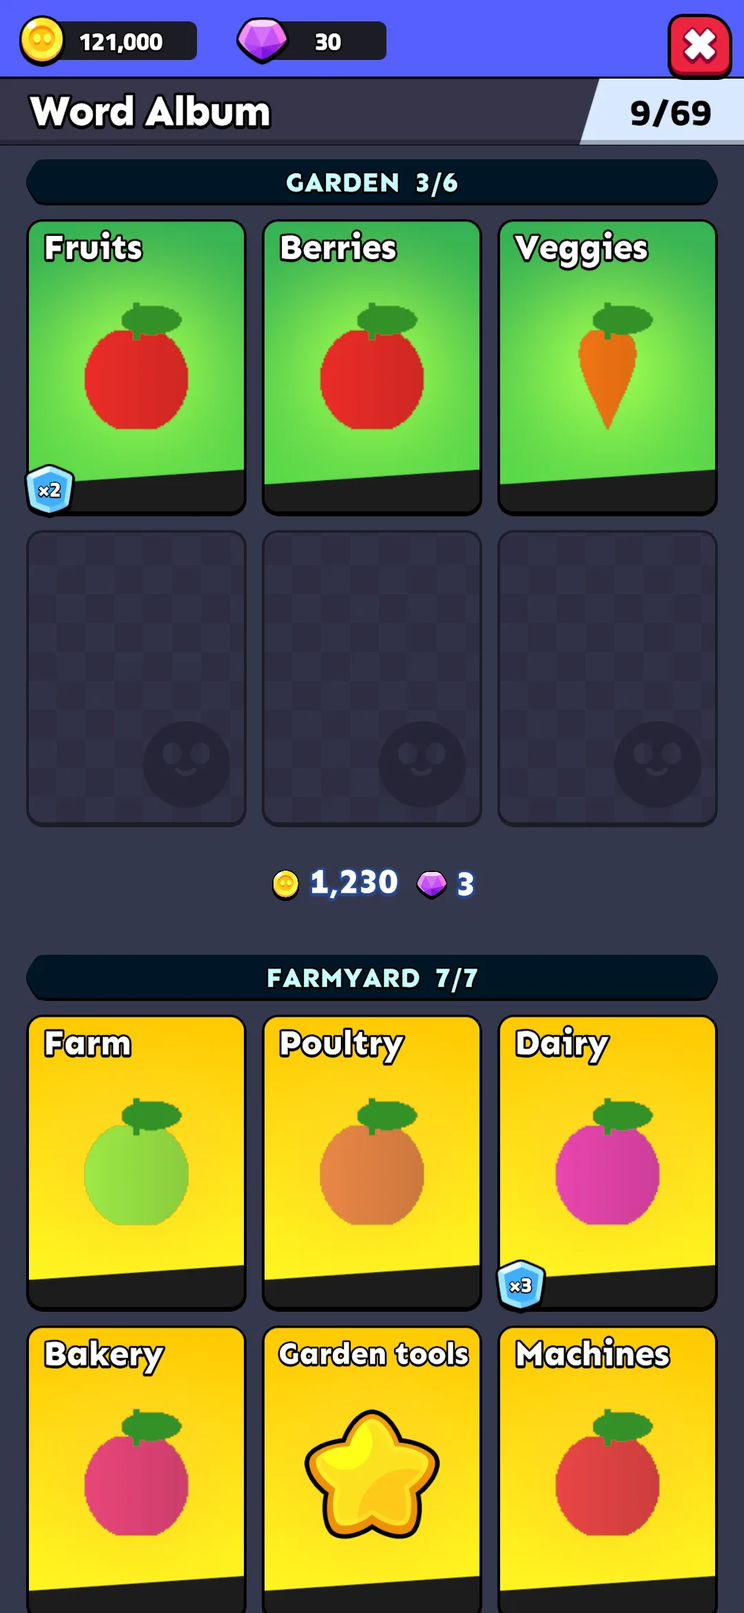
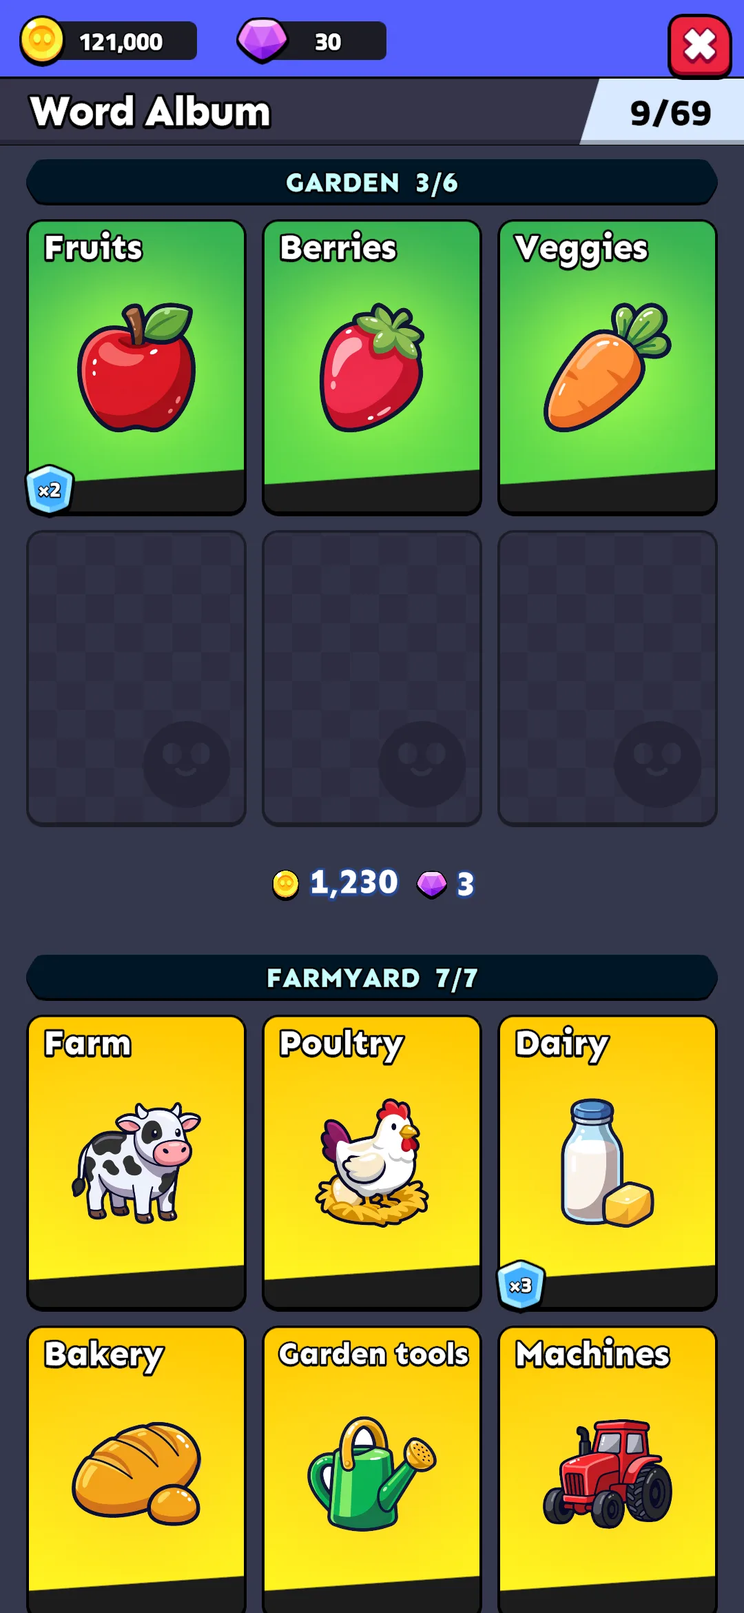
Publish leonteva/word-harvest-farm-windows

diff --git a/leonteva/word-harvest-farm-windows/index.html b/leonteva/word-harvest-farm-windows/index.html
@@ -24,55 +24,55 @@ details{margin-top:6px;font-size:14px} summary{cursor:pointer;color:var(--q)} de
   <header><span class="n">1</span><h2>Уровень фермы (награды)</h2><span class="chip">C — список</span><span class="chip wait">ждёт приёмки</span></header>
   <p class="cap">Дорога уровней пака: пузырь на уровень (монеты в шестиугольнике, самоцветы и джокер парами, лента «что откроется»), слайдер заливается по опыту; сверху бейдж уровня, снизу выбор сукна. <span class="pack">Префаб пака: Reward_Roadmap (+ Slider_Level из Lobby)</span></p>
   <div class="shots"><figure class="web"><img loading="lazy" src="img/ph390_27_farm_level.webp" alt=""><figcaption>веб-прототип (было)</figcaption></figure><figure class="unity"><img loading="lazy" src="img/pack_farm_level.webp" alt=""><figcaption>Unity · 1080×2340 · farm level</figcaption></figure><figure class="unity"><img loading="lazy" src="img/pack_farm_level_later.webp" alt=""><figcaption>Unity · 1080×2340 · farm level later</figcaption></figure><figure class="unity_1920"><img loading="lazy" src="img/pack_farm_level_1920.webp" alt=""><figcaption>Unity · 1080×1920</figcaption></figure></div>
-  <details><summary>Вопросы (5)</summary><ul><li>Строка источников опыта прототипа («звезда +10, урожай +1 …») не перенесена — это текст. Вернуть рядом иконок под шапкой?</li><li>Сукно: в паке нет картинок сукна — четыре круглые кнопки Lobby с пиктограммами пака (лист, капля, слои, луна) в цвете сукна. Оставить или рисовать свои картинки (APW)?</li><li>Пузырь уровня: монеты в шестиугольнике, самоцветы и джокер парами под номером; подпись «Level» оставлена по образцу «Stage» пака — убрать ради правила «иконка + число»?</li><li>Дорога показывает все уровни с 1-го до текущего+5 (прототип — только пять следующих): на больших уровнях длинная прокрутка. Ограничить двумя пройденными?</li><li>Имена сукна в кнопках короткие (Green, Blue, Checkered, Starry; в ленте — «Blue felt»); замок с уровнем в красном бейдже пака — читается как «нужен уровень 4»?</li></ul></details>
+  
 </section>
 <section class="win" id="tasks">
   <header><span class="n">2</span><h2>Задания дня</h2><span class="chip">C — список</span> <span class="chip sample">образец типа</span><span class="chip wait">ждёт приёмки</span></header>
   <p class="cap">Список пака: три состояния строк (выполнено с «Claim», в работе, получено), награда иконкой и числом, сундук за все три; таймер до новых заданий. <span class="pack">Префаб пака: Mission_List</span></p>
   <div class="shots"><figure class="web"><img loading="lazy" src="img/ph390_23_tasks.webp" alt=""><figcaption>веб-прототип (было)</figcaption></figure><figure class="unity"><img loading="lazy" src="img/pack_tasks.webp" alt=""><figcaption>Unity · 1080×2340 · tasks</figcaption></figure><figure class="unity"><img loading="lazy" src="img/pack_tasks_chest.webp" alt=""><figcaption>Unity · 1080×2340 · tasks chest</figcaption></figure><figure class="unity_1920"><img loading="lazy" src="img/pack_tasks_1920.webp" alt=""><figcaption>Unity · 1080×1920</figcaption></figure></div>
-  <details><summary>Вопросы (4)</summary><ul><li>Опыт фермы за задание (+15) и самоцветы/джокер сундука в строках не показаны (только монеты) — добавить второй значок на рамку?</li><li>Текст полосы прогресса 36 и таймер 32 — размеры пака; поднять?</li><li>Тосты прототипа при получении (полёт монет в счётчик) — это 7б.4; пока кошелёк в шапке обновляется сразу.</li><li>Боковая кнопка заданий показывает число готовых наград (бейдж пака); «Новое!» прототипа заменено на «!» до первого открытия.</li></ul></details>
+  
 </section>
 <section class="win" id="album">
   <header><span class="n">3</span><h2>Словарь</h2><span class="chip">C — список</span><span class="chip wait">ждёт приёмки</span></header>
   <p class="cap">Секция на набор: заголовок с «have/total», карты пака (цветные — собранные наклейки, пустые — нет), ряд награды с «Claim» или галочкой. <span class="pack">Префаб пака: Collection_List</span></p>
   <div class="shots"><figure class="web"><img loading="lazy" src="img/ph390_26_album.webp" alt=""><figcaption>веб-прототип (было)</figcaption></figure><figure class="unity"><img loading="lazy" src="img/pack_album.webp" alt=""><figcaption>Unity · 1080×2340 · album</figcaption></figure><figure class="unity"><img loading="lazy" src="img/pack_album_claim.webp" alt=""><figcaption>Unity · 1080×2340 · album claim</figcaption></figure><figure class="unity_1920"><img loading="lazy" src="img/pack_album_1920.webp" alt=""><figcaption>Unity · 1080×1920</figcaption></figure></div>
-  <details><summary>Вопросы (4)</summary><ul><li>Цвет карточек — по порядку набора (1-й зелёный, 2-й жёлтый, …), не по цвету категории из categories.json; красить по категории?</li><li>Картинка наклейки — первая картинка категории из набора урожая (CropSprites, пиксельные заглушки); у категорий без картинки — звезда пака. Нужен отдельный арт наклеек?</li><li>Пролёт новых наклеек и подсветка «new» при открытии (прототип) не сделаны — 7б.4; сейчас новые просто помечаются увиденными.</li><li>Награда набора выводится в ряд под сеткой, даже если набор пуст (0/10) — скрыть, пока нет ни одной наклейки?</li></ul></details>
+  <details><summary>Вопросы (2)</summary><ul><li>Картинка наклейки — первая картинка категории из набора урожая (CropSprites, пиксельные заглушки); у категорий без картинки — звезда пака. Нужен отдельный арт наклеек?</li><li>31 категория без своей картинки (drinks … cheeses): догенерировать после пополнения kie.ai или оставить звезду пака?</li></ul></details>
 </section>
 <section class="win" id="daily">
   <header><span class="n">4</span><h2>Подарок дня (7 дней)</h2><span class="chip">C — список</span><span class="chip wait">ждёт приёмки</span></header>
   <p class="cap">Семь ячеек пака: получено / сегодня / впереди, монеты и допы иконками; серия и заморозки по краям большой ячейки, одна «Claim». <span class="pack">Префаб пака: Daily_Bonus_7Day</span></p>
   <div class="shots"><figure class="web"><img loading="lazy" src="img/ph390_42_calendar.webp" alt=""><figcaption>веб-прототип (было)</figcaption></figure><figure class="web"><img loading="lazy" src="img/ph390_43_calendar_claimed.webp" alt=""><figcaption>веб-прототип (было)</figcaption></figure><figure class="unity"><img loading="lazy" src="img/pack_daily.webp" alt=""><figcaption>Unity · 1080×2340 · daily</figcaption></figure><figure class="unity"><img loading="lazy" src="img/pack_daily_claimed.webp" alt=""><figcaption>Unity · 1080×2340 · daily claimed</figcaption></figure><figure class="unity"><img loading="lazy" src="img/pack_daily_day7.webp" alt=""><figcaption>Unity · 1080×2340 · daily day7</figcaption></figure><figure class="unity_1920"><img loading="lazy" src="img/pack_daily_1920.webp" alt=""><figcaption>Unity · 1080×1920</figcaption></figure></div>
-  <details><summary>Вопросы (4)</summary><ul><li>Тосты прототипа («заморозка спасла серию», «серия N дней: +3 самоцвета», «серия началась заново») не показаны — вернуть тостом пака (7б.4)?</li><li>Когда подарок уже взят, кнопки нет и таймера нет (крестик) — показать «через 11h 40m» в ленте?</li><li>Число под сундуком 7-го дня перекрывает его нижний край (стиль пака, как «1000» на монетах) — оставить или сдвинуть вправо?</li><li>Иконка подсказки — лупа пака (как на кнопке подсказки уровня), не лампочка прототипа.</li></ul></details>
+  
 </section>
 <section class="win" id="wheel">
   <header><span class="n">5</span><h2>Колесо</h2><span class="chip">D — награда</span><span class="chip wait">ждёт приёмки</span></header>
   <p class="cap">Колесо пака с нашими восемью секторами, SPIN пака; после спина «Claim» с призом и «+1» за видео. <span class="pack">Префаб пака: Popup_LuckSpin</span></p>
   <div class="shots"><figure class="web"><img loading="lazy" src="img/ph390_24_wheel.webp" alt=""><figcaption>веб-прототип (было)</figcaption></figure><figure class="web"><img loading="lazy" src="img/ph390_25_wheel_spin.webp" alt=""><figcaption>веб-прототип (было)</figcaption></figure><figure class="unity"><img loading="lazy" src="img/pack_wheel.webp" alt=""><figcaption>Unity · 1080×2340 · wheel</figcaption></figure><figure class="unity"><img loading="lazy" src="img/pack_wheel_result.webp" alt=""><figcaption>Unity · 1080×2340 · wheel result</figcaption></figure><figure class="unity_1920"><img loading="lazy" src="img/pack_wheel_1920.webp" alt=""><figcaption>Unity · 1080×1920</figcaption></figure></div>
-  <details><summary>Вопросы (4)</summary><ul><li>Цвета секторов — пака (два синих), не восемь цветов прототипа; перекрашивать карманы под сектора?</li><li>Щелчки по границам, подсветка выигравшего кармана, конфетти и полёт награды в счётчик — 7б.4.</li><li>Закрытие крестиком до спина теряет дневной спин (как в прототипе: отсчёт стартует при открытии) — оставить?</li><li>Кнопка «+1» видео — копия зелёной кнопки видео пака с «+1» (без подписи «Daily Spin 3/3»).</li></ul></details>
+  
 </section>
 <section class="win" id="shop">
   <header><span class="n">6</span><h2>Лавка (монеты, наборы, бесплатно, копилка, билет)</h2><span class="chip">B — покупка</span><span class="chip wait">ждёт приёмки</span></header>
   <p class="cap">Один экран вместо трёх вкладок: FREE (видео, копилка), PACKS (билет, стартовый набор, наборы), COINS (шесть карт). Лавка пака целиком. <span class="pack">Префаб пака: Shop (+ Shop_Pass_Deactivate для билета)</span></p>
   <div class="shots"><figure class="web"><img loading="lazy" src="img/ph390_18_shop_coins.webp" alt=""><figcaption>веб-прототип (было)</figcaption></figure><figure class="web"><img loading="lazy" src="img/ph390_19_shop_packs.webp" alt=""><figcaption>веб-прототип (было)</figcaption></figure><figure class="web"><img loading="lazy" src="img/ph390_20_shop_free.webp" alt=""><figcaption>веб-прототип (было)</figcaption></figure><figure class="unity"><img loading="lazy" src="img/pack_store.webp" alt=""><figcaption>Unity · 1080×2340 · store</figcaption></figure><figure class="unity"><img loading="lazy" src="img/pack_store_later.webp" alt=""><figcaption>Unity · 1080×2340 · store later</figcaption></figure><figure class="unity_1920"><img loading="lazy" src="img/pack_store_1920.webp" alt=""><figcaption>Unity · 1080×1920</figcaption></figure></div>
-  <details><summary>Вопросы (6)</summary><ul><li>Порядок секций: FREE → PACKS → COINS (бесплатное первым, ради бейджа кнопки); прототип открывал «Монеты». Поменять порядок?</li><li>Тексты карточек — размеры пака (имя 30, число 54, цена 48), как в принятом окне монет; поднимать до 52?</li><li>Бустер-набор на карте показывает только «×5» (джокеры); монеты и подсказки видны в окне подтверждения. Нужна вторая строка?</li><li>Копилка: вместо полосы прототипа — бейдж с процентом и «FULL»; шкала не нужна?</li><li>Секция монет дублирует окно монет с «+» у счётчика — оставить обе точки входа?</li><li>Тосты «через N минут», «разбить с 50%» — как в прототипе, одной строкой UI.Toast.</li></ul></details>
+  
 </section>
 <section class="win" id="replay">
   <header><span class="n">7</span><h2>Переигровка за звёздами</h2><span class="chip">A — простой попап</span><span class="chip wait">ждёт приёмки</span></header>
   <p class="cap">Попап в форме окна старта: имя пака в ярлыке, плашка фактов (звёзды пака, порог золотого ящика, половина награды), ряд плиток уровней со звёздами и прокруткой, PLAY. <span class="pack">Префаб пака: Popup_Stage_Start_Sky (как окно старта)</span></p>
   <div class="shots"><figure class="web"><img loading="lazy" src="img/ph390_30_replay.webp" alt=""><figcaption>веб-прототип (было)</figcaption></figure><figure class="unity"><img loading="lazy" src="img/pack_replay.webp" alt=""><figcaption>Unity · 1080×2340 · replay</figcaption></figure><figure class="unity"><img loading="lazy" src="img/pack_replay_short.webp" alt=""><figcaption>Unity · 1080×2340 · replay short</figcaption></figure><figure class="unity_1920"><img loading="lazy" src="img/pack_replay_1920.webp" alt=""><figcaption>Unity · 1080×1920</figcaption></figure></div>
-  <details><summary>Вопросы (4)</summary><ul><li>Прототип запускает уровень по тапу на плитку; здесь плитка выбирает, запускает PLAY (как ставки в окне старта). Оставить?</li><li>«Половина награды» показана монетой с «50%» на плашке фактов, золотой ящик — сундуком с порогом в звёздах; без текста. Читается?</li><li>Кнопка переигровки на ферме — третья слева (звезда) с числом уровней без трёх звёзд; в прототипе это «↻» в панели пака, которой на ферме пака нет (см. вопросы фермы).</li><li>Имена паков переведены (pack.&lt;id&gt;): Kitchen Garden, Orchard, Apiary, Mill, Fair, Autumn Fair, Vineyard, Dairy Farm, Great Mill, Fruit Orchards, Bakery, Country Show — ок? Ящик и грядки пока берут русское имя из economy.json.</li></ul></details>
+  
 </section>
 <section class="win" id="tutorial">
   <header><span class="n">8</span><h2>Обучение: рука, подсказки</h2><span class="chip">E — экраны</span><span class="chip wait">ждёт приёмки</span></header>
   <p class="cap">Пузырь Tutorial_2 с подсказкой шага под верхней панелью и рука пака, указывающая на карту; шаги и условия — из tutorial.js прототипа. <span class="pack">Префаб пака: Tutorial_2 (пузырь и рука)</span></p>
   <div class="shots"><figure class="web"><img loading="lazy" src="img/ph390_03_l1_tutorial.webp" alt=""><figcaption>веб-прототип (было)</figcaption></figure><figure class="web"><img loading="lazy" src="img/ph390_44_moves_tip.webp" alt=""><figcaption>веб-прототип (было)</figcaption></figure><figure class="unity"><img loading="lazy" src="img/pack_tutorial.webp" alt=""><figcaption>Unity · 1080×2340 · tutorial</figcaption></figure><figure class="unity"><img loading="lazy" src="img/pack_tutorial_tip.webp" alt=""><figcaption>Unity · 1080×2340 · tutorial tip</figcaption></figure><figure class="unity_1920"><img loading="lazy" src="img/pack_tutorial_1920.webp" alt=""><figcaption>Unity · 1080×1920</figcaption></figure></div>
-  <details><summary>Вопросы (5)</summary><ul><li>Снимок показывает накладку на пустом холсте инструмента снимков (стола и панелей уровня на нём нет); владелец 2026-10-28: оставить так, под вопросом — снять поверх живого уровня при прогоне PlayMode.</li><li>Карточка «Новое» на старте уровня с новой механикой (levelTip прототипа) не перенесена: показывать строку tutorial.&lt;key&gt; в окне старта?</li><li>Кнопки SKIP (есть в Tutorial_1 пака) нет — как в прототипе. Добавить?</li><li>Рука пака вполовину демо-размера (179 px) — размер под карту стола подобран на глаз; проверить на снимке живой игры.</li><li>Пузырь на 13% от верха (прототип 10.5%), чтобы не лечь на верхнюю панель уровня; текст пузыря 47 (пак) — поднимать до 52?</li></ul></details>
+  
 </section>
 <section class="win" id="banners">
   <header><span class="n">9</span><h2>Баннеры и тосты («Фух!», «На последнем ходу!»)</h2><span class="chip">E — экраны</span><span class="chip wait">ждёт приёмки</span></header>
   <p class="cap">Полосы Popup_Toast: серая / зелёная / красная для тостов игры внизу, жёлтая с серой — баннер победы («На последнем ходу!», «Поле чистое!») над корзинами. <span class="pack">Префаб пака: Popup_Toast</span></p>
   <div class="shots"><figure class="web"><img loading="lazy" src="img/ph390_39_phew_float.webp" alt=""><figcaption>веб-прототип (было)</figcaption></figure><figure class="web"><img loading="lazy" src="img/ph390_40_last_move_banner.webp" alt=""><figcaption>веб-прототип (было)</figcaption></figure><figure class="unity"><img loading="lazy" src="img/pack_toast.webp" alt=""><figcaption>Unity · 1080×2340 · toast</figcaption></figure><figure class="unity"><img loading="lazy" src="img/pack_toast_clear.webp" alt=""><figcaption>Unity · 1080×2340 · toast clear</figcaption></figure><figure class="unity_1920"><img loading="lazy" src="img/pack_toast_1920.webp" alt=""><figcaption>Unity · 1080×1920</figcaption></figure></div>
-  <details><summary>Вопросы (5)</summary><ul><li>Снимок показывает накладку на пустом холсте инструмента снимков (стола и панелей уровня на нём нет); владелец 2026-10-28: оставить так, под вопросом — снять поверх живого уровня при прогоне PlayMode.</li><li>Баннер победы задерживает окно победы на 1.4 с (как прототип, 0.9 с удержания + анимация) — оставить или показывать баннер поверх окна без паузы?</li><li>Заголовок баннера — текст в жёлтой полосе пака; у пака есть готовые картинки-надписи ActionText (CLEAR, COMPLETE, VICTORY) — заменить «Field clear!» на арт CLEAR?</li><li>Надпись «Фух! В запасе N ходов» прототипа у счётчика ходов не делалась отдельно — она ушла второй строкой баннера. Нужна отдельная всплывашка у счётчика?</li><li>Плавающие «+N» над картами (hud.float) не переносились: это анимация поля, не окно.</li></ul></details>
+  
 </section></main><div id="zoom"><img alt=""></div>
 <script>const z=document.getElementById('zoom');document.querySelectorAll('figure img').forEach(i=>i.onclick=()=>{z.firstElementChild.src=i.src;z.style.display='flex'});z.onclick=()=>z.style.display='none';</script>
 </body></html>
